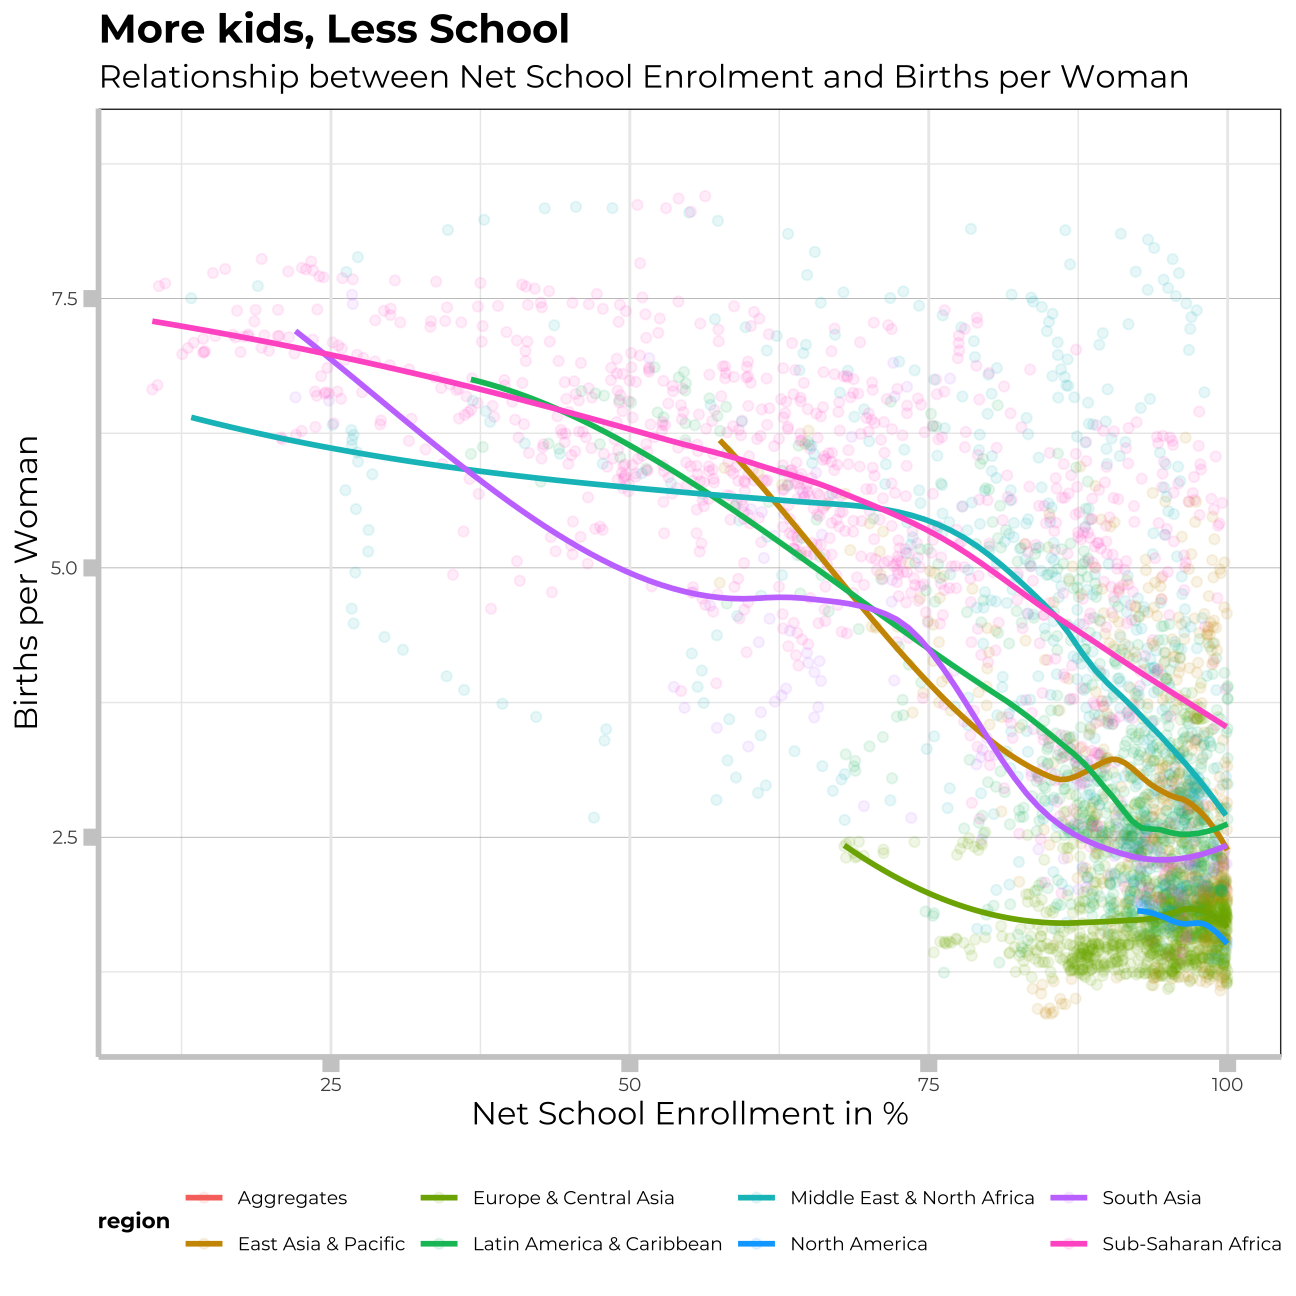
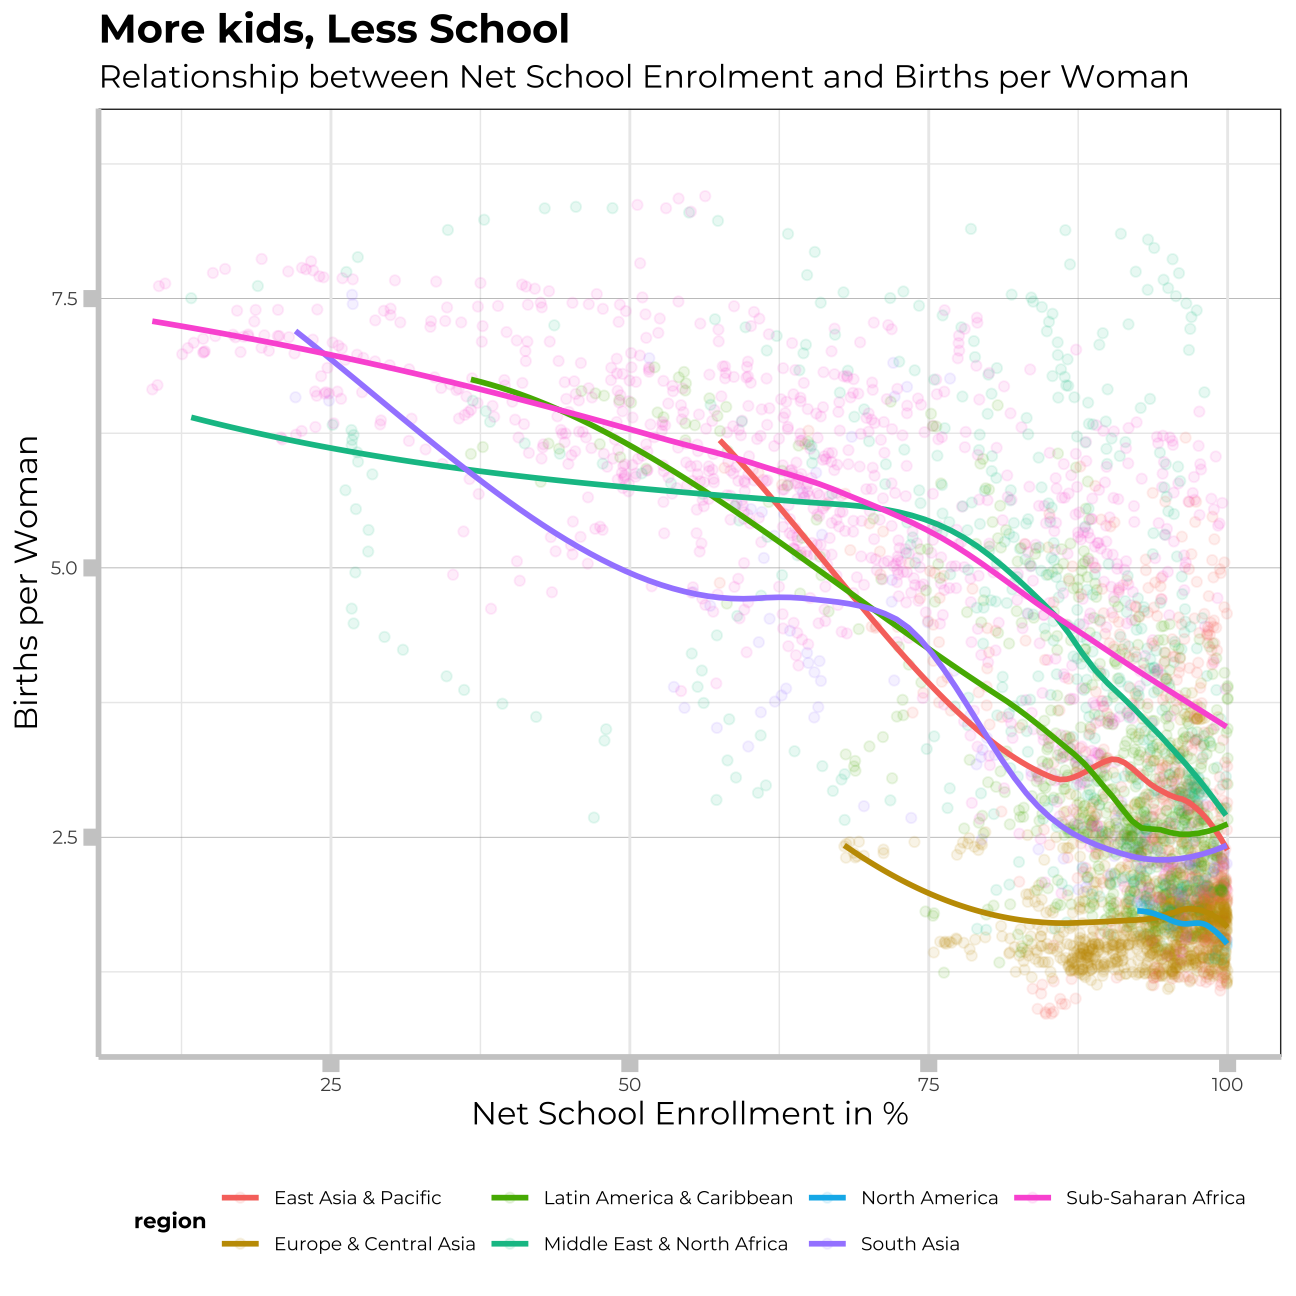
p3 fixing little pr

diff --git a/content/portfolio/project-03.html b/content/portfolio/project-03.html
@@ -391,7 +391,8 @@ primenrolment_fertility_df &lt;- data %&gt;%
          SP.DYN.TFRT.IN, 
          SE.PRM.NENR) %&gt;% 
   rename(&quot;births_per_woman&quot; = &quot;SP.DYN.TFRT.IN&quot;,
-         &quot;net_school_enrolment&quot; = &quot;SE.PRM.NENR&quot;)
+         &quot;net_school_enrolment&quot; = &quot;SE.PRM.NENR&quot;) %&gt;% 
+  filter(region!=&quot;Aggregates&quot;)
 
 #primenrolment_fertility_df
 

diff --git a/public/portfolio/project-03/index.html b/public/portfolio/project-03/index.html
@@ -482,7 +482,8 @@ primenrolment_fertility_df &lt;- data %&gt;%
          SP.DYN.TFRT.IN, 
          SE.PRM.NENR) %&gt;% 
   rename(&quot;births_per_woman&quot; = &quot;SP.DYN.TFRT.IN&quot;,
-         &quot;net_school_enrolment&quot; = &quot;SE.PRM.NENR&quot;)
+         &quot;net_school_enrolment&quot; = &quot;SE.PRM.NENR&quot;) %&gt;% 
+  filter(region!=&quot;Aggregates&quot;)
 
 #primenrolment_fertility_df
 
